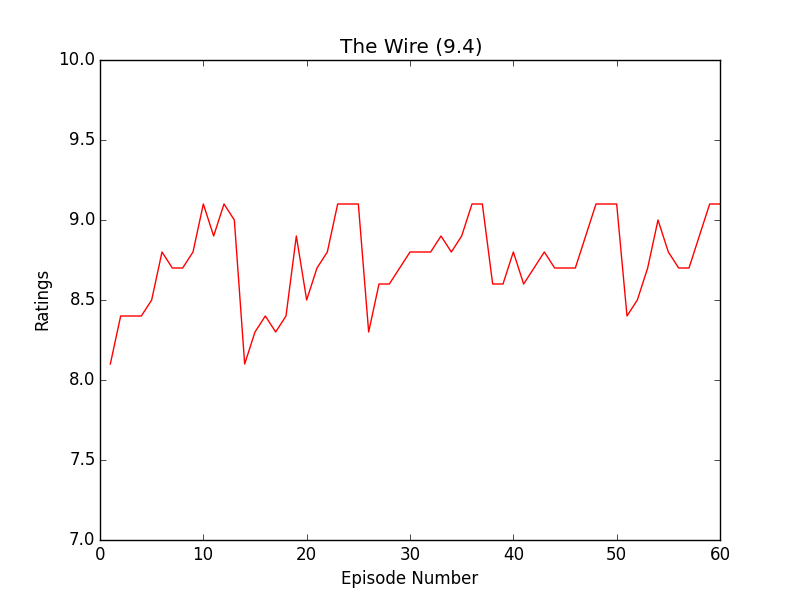
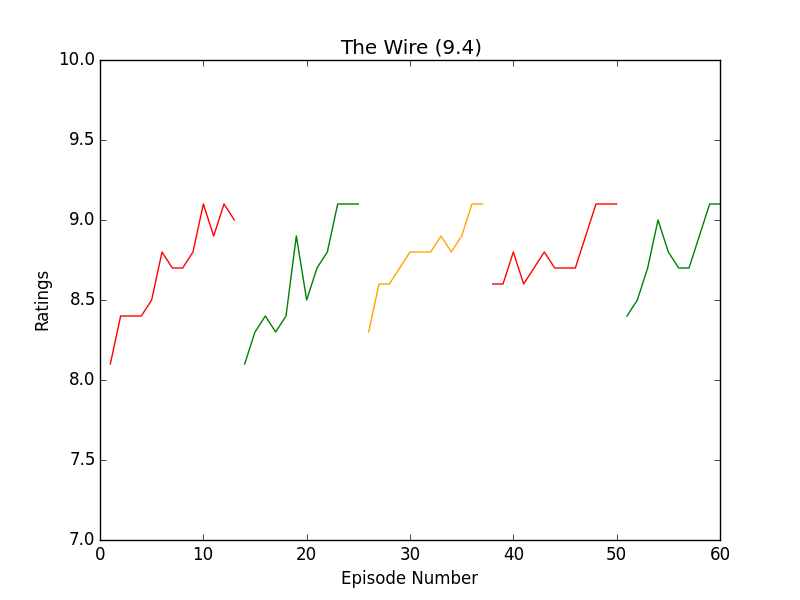
Improved plotting capabilities by adding different color for different seasons

diff --git a/tvstats/graph.py b/tvstats/graph.py
@@ -9,14 +9,19 @@ def graphdata(data):
     to be used for making graphs"""
     data = jh.get_ratings(data)
     num = 1
-    rating, epinum = [], []
-    for k, v in data.iteritems():
+    rating_final = []
+    episode_final = []
+    for k,v in data.iteritems():
+        rating=[]
+        epinum=[]
         for r in v:
             if r != None:
                 rating.append(float(r))
                 epinum.append(num)
-                num += 1
-    return epinum, rating
+                num+=1
+        rating_final.append(rating)
+        episode_final.append(epinum)
+    return rating_final,episode_final
 
 
 def graph(data):
@@ -25,8 +30,12 @@ def graph(data):
     plt.title(title)
     plt.xlabel('Episode Number')
     plt.ylabel('Ratings')
-    x, y = graphdata(data)
-    plt.plot(x, y, 'r')
+    rf,ef=graphdata(data)
+    col=['red', 'green' , 'orange']
+    for i in range(len(rf)):
+        x,y=ef[i],rf[i]
+        k = i + 1
+        plt.plot(x, y,color=col[i%3])
     x1, x2, y1, y2 = plt.axis()
     y2 = 10
     if y1 > 7:
